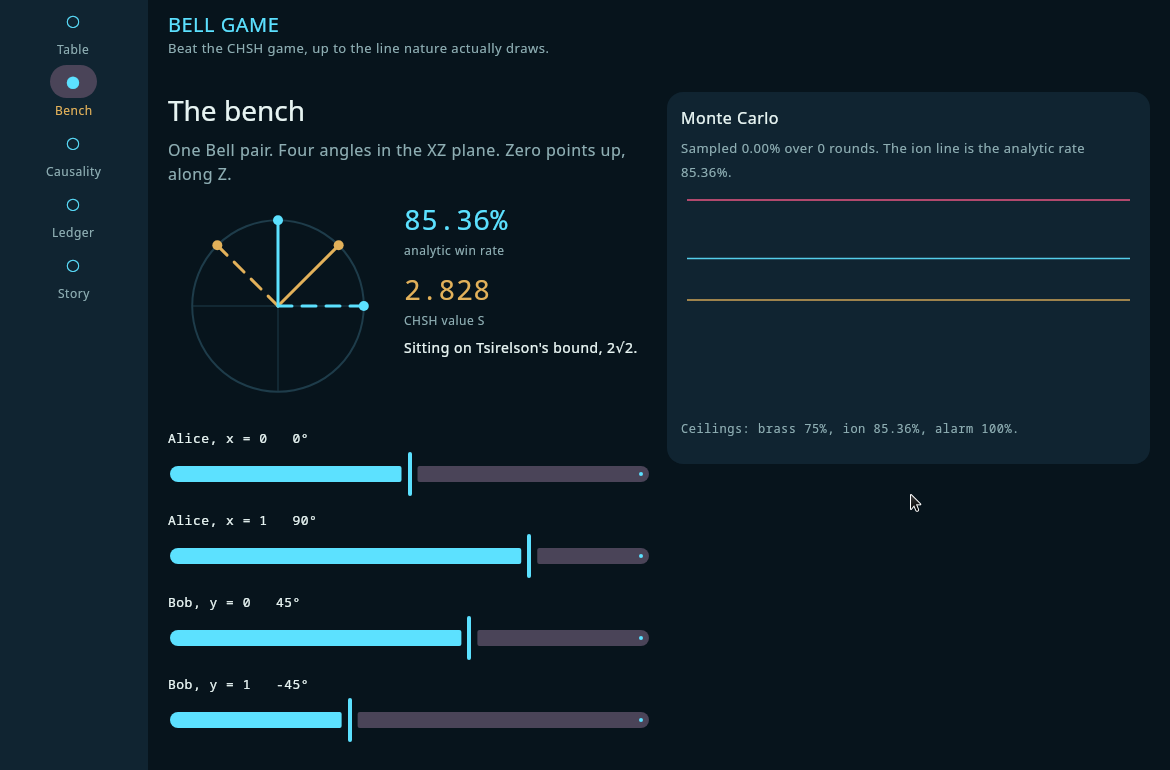
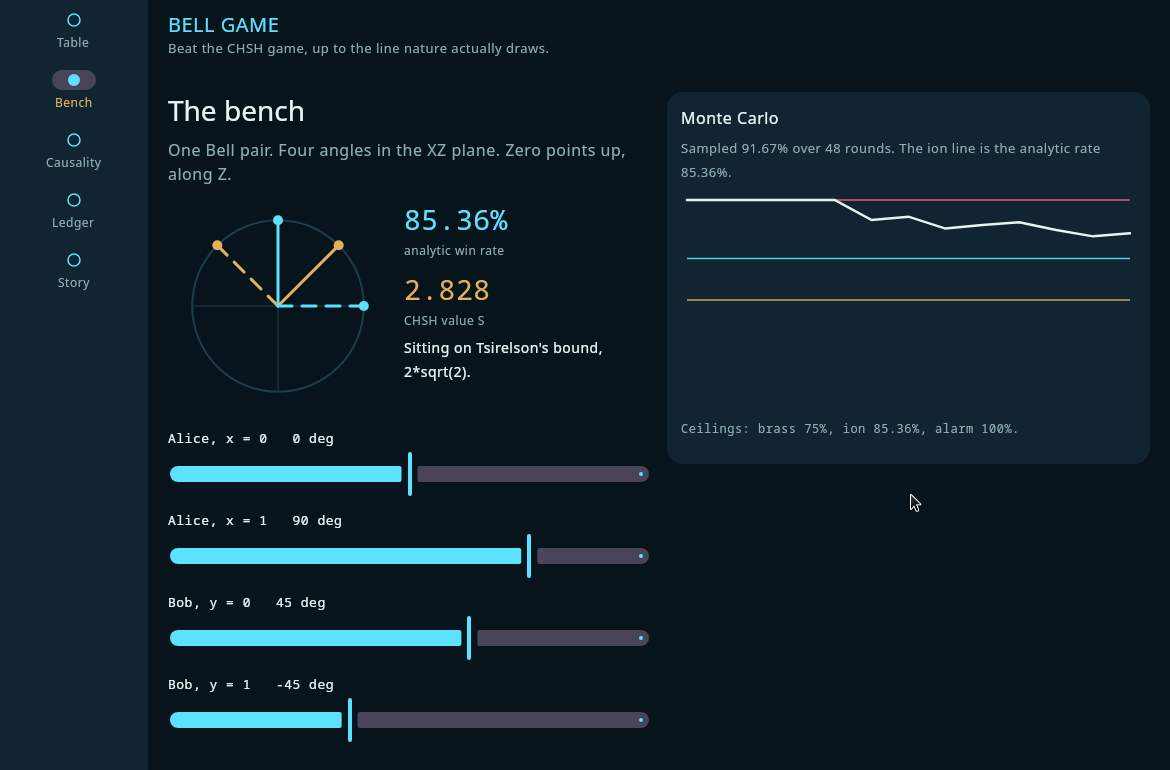
Keep the Wasm app offline and correct the bench preload.
Draw the navigation marks, serve a favicon, fill the bench sample when that
screen is preloaded, and document the shared-code count, fakeroot, and the
AGP flags. CI runs the same checks on push and pull request.

diff --git a/composeApp/src/commonMain/kotlin/dev/eyeoverthink/bellgame/ui/BellGameApp.kt b/composeApp/src/commonMain/kotlin/dev/eyeoverthink/bellgame/ui/BellGameApp.kt
@@ -1,5 +1,6 @@
 package dev.eyeoverthink.bellgame.ui
 
+import androidx.compose.foundation.Canvas
 import androidx.compose.foundation.layout.Box
 import androidx.compose.foundation.layout.BoxWithConstraints
 import androidx.compose.foundation.layout.Column
@@ -9,6 +10,7 @@ import androidx.compose.foundation.layout.fillMaxHeight
 import androidx.compose.foundation.layout.fillMaxSize
 import androidx.compose.foundation.layout.padding
 import androidx.compose.foundation.layout.safeDrawing
+import androidx.compose.foundation.layout.size
 import androidx.compose.foundation.layout.width
 import androidx.compose.foundation.layout.windowInsetsPadding
 import androidx.compose.material3.NavigationBar
@@ -24,6 +26,7 @@ import androidx.compose.runtime.mutableStateOf
 import androidx.compose.runtime.remember
 import androidx.compose.runtime.setValue
 import androidx.compose.ui.Modifier
+import androidx.compose.ui.graphics.drawscope.Stroke
 import androidx.compose.ui.unit.dp
 import androidx.compose.ui.unit.sp
 import dev.eyeoverthink.bellgame.engine.Regime
@@ -31,14 +34,21 @@ import dev.eyeoverthink.bellgame.engine.Regime
 /**
  * The whole exhibit. Every screen is shared; the platform shells only call this.
  *
- * [preloadDemo] deals a short quantum run so a cold start can show a live score.
+ * [preloadDemo] deals a short quantum run into the score that [start] actually
+ * shows. The bench has its own ledger, so opening the bench fills that sample.
+ * Every other screen fills the table.
  */
 @Composable
 fun BellGameApp(start: AppScreen = AppScreen.Table, preloadDemo: Boolean = false) {
     val session = remember { GameSession() }
     var screen by remember { mutableStateOf(start) }
-    LaunchedEffect(preloadDemo) {
-        if (preloadDemo) {
+    LaunchedEffect(preloadDemo, start) {
+        if (!preloadDemo) {
+            return@LaunchedEffect
+        }
+        if (preloadFillsBench(start)) {
+            session.recordLabRounds(PRELOAD_ROUNDS)
+        } else {
             session.selectRegime(Regime.Quantum)
             repeat(PRELOAD_ROUNDS) {
                 session.playOne()
@@ -107,7 +117,7 @@ private fun ExhibitRail(screen: AppScreen, onSelect: (AppScreen) -> Unit) {
             NavigationRailItem(
                 selected = screen == entry,
                 onClick = { onSelect(entry) },
-                icon = { Text(if (screen == entry) "●" else "○", color = BellColors.Ion) },
+                icon = { NavMark(selected = screen == entry) },
                 label = { Text(entry.label) },
             )
         }
@@ -121,11 +131,37 @@ private fun ExhibitBar(screen: AppScreen, onSelect: (AppScreen) -> Unit) {
             NavigationBarItem(
                 selected = screen == entry,
                 onClick = { onSelect(entry) },
-                icon = { Text(if (screen == entry) "●" else "○", color = BellColors.Ion, fontSize = 12.sp) },
+                icon = { NavMark(selected = screen == entry) },
                 label = { Text(entry.label, fontSize = 11.sp) },
             )
         }
     }
 }
+
+/**
+ * A filled or open circle drawn by the app.
+ *
+ * These marks used to be the text glyphs ● and ○. On Wasm, Skia downloads a
+ * Noto fallback from fonts.gstatic.com for any code point the embedded face
+ * does not contain. A circle does not ask for that face.
+ */
+@Composable
+private fun NavMark(selected: Boolean) {
+    Canvas(Modifier.size(12.dp)) {
+        if (selected) {
+            drawCircle(color = BellColors.Ion)
+        } else {
+            drawCircle(
+                color = BellColors.Ion,
+                style = Stroke(width = 1.5.dp.toPx()),
+            )
+        }
+    }
+}
+
+/**
+ * Whether a cold-start preload should fill the bench sample instead of the table.
+ */
+fun preloadFillsBench(screen: AppScreen): Boolean = screen == AppScreen.Bench
 
 private const val PRELOAD_ROUNDS = 48

diff --git a/composeApp/src/commonMain/kotlin/dev/eyeoverthink/bellgame/ui/LedgerScreen.kt b/composeApp/src/commonMain/kotlin/dev/eyeoverthink/bellgame/ui/LedgerScreen.kt
@@ -32,12 +32,12 @@ fun LedgerScreen(session: GameSession, modifier: Modifier = Modifier) {
     ) {
         Text("The ledger", style = MaterialTheme.typography.headlineMedium, color = BellColors.Ink)
         Text(
-            "Brass is 75%, ion is cos²(π/8), alarm is a perfect score. " +
+            "Brass is 75%, ion is cos^2(pi/8), alarm is a perfect score. " +
                 "A long enough run sits on the line its strategy can actually reach.",
             color = BellColors.Muted,
         )
         LedgerCard(
-            title = "Table · ${session.regime.title}",
+            title = "Table - ${session.regime.title}",
             ledger = session.ledger,
         )
         LedgerCard(
@@ -66,7 +66,7 @@ private fun LedgerCard(title: String, ledger: Ledger) {
                 for (y in 0..1) {
                     val dealt = ledger.roundsFor(x, y)
                     val label = if (dealt == 0) {
-                        "x$x y$y  —"
+                        "x$x y$y  -"
                     } else {
                         "x$x y$y  ${formatPercent(ledger.rateFor(x, y))}  ($dealt)"
                     }

diff --git a/composeApp/src/commonMain/kotlin/dev/eyeoverthink/bellgame/ui/StoryScreen.kt b/composeApp/src/commonMain/kotlin/dev/eyeoverthink/bellgame/ui/StoryScreen.kt
@@ -46,8 +46,8 @@ fun StoryScreen(modifier: Modifier = Modifier) {
             body = "Give them one entangled pair, the Bell state that is an equal mix of both " +
                 "bits zero and both bits one. Alice measures along Z or X, depending on x. " +
                 "Bob measures along the two diagonals between Z and X, depending on y. " +
-                "The chance they win a round is cos²(π/8), about 85.36%. The same angles " +
-                "produce the CHSH number 2√2, Tsirelson's bound. The bench lets you leave " +
+                "The chance they win a round is cos^2(pi/8), about 85.36%. The same angles " +
+                "produce the CHSH number 2*sqrt(2), Tsirelson's bound. The bench lets you leave " +
                 "those angles and watch the win rate fall back toward 75%, or sit on the bound " +
                 "while a Monte Carlo run settles onto the curve.",
         )

diff --git a/composeApp/src/commonMain/kotlin/dev/eyeoverthink/bellgame/ui/Format.kt b/composeApp/src/commonMain/kotlin/dev/eyeoverthink/bellgame/ui/Format.kt
@@ -26,5 +26,10 @@ fun formatFixed(value: Double, decimals: Int): String {
 /** Format a fraction in the unit interval as a percent with two decimals. */
 fun formatPercent(rate: Double): String = formatFixed(rate * 100.0, 2) + "%"
 
-/** Radians to a whole-degree label. */
-fun formatDegrees(radians: Double): String = formatFixed(radians * 180.0 / PI, 0) + "°"
+/**
+ * Radians as a whole-degree label, in ASCII.
+ *
+ * The degree sign is a separate code point. Wasm would fetch a fallback font
+ * to draw it, so the label spells the unit out.
+ */
+fun formatDegrees(radians: Double): String = formatFixed(radians * 180.0 / PI, 0) + " deg"

diff --git a/composeApp/src/commonTest/kotlin/dev/eyeoverthink/bellgame/ui/PreloadTargetTest.kt b/composeApp/src/commonTest/kotlin/dev/eyeoverthink/bellgame/ui/PreloadTargetTest.kt
@@ -1,0 +1,20 @@
+package dev.eyeoverthink.bellgame.ui
+
+import kotlin.test.Test
+import kotlin.test.assertFalse
+import kotlin.test.assertTrue
+
+class PreloadTargetTest {
+    @Test
+    fun benchPreloadFillsTheBenchLedger() {
+        assertTrue(preloadFillsBench(AppScreen.Bench))
+    }
+
+    @Test
+    fun otherScreensPreloadTheTable() {
+        assertFalse(preloadFillsBench(AppScreen.Table))
+        assertFalse(preloadFillsBench(AppScreen.Ledger))
+        assertFalse(preloadFillsBench(AppScreen.Causality))
+        assertFalse(preloadFillsBench(AppScreen.Story))
+    }
+}

diff --git a/composeApp/src/commonMain/kotlin/dev/eyeoverthink/bellgame/ui/CausalityScreen.kt b/composeApp/src/commonMain/kotlin/dev/eyeoverthink/bellgame/ui/CausalityScreen.kt
@@ -184,7 +184,7 @@ private fun explanation(regime: Regime): String = when (regime) {
         "Local boxes are correlation 1/2. Nesting them still leaves Bob short of a full extra bit."
 
     Regime.Quantum ->
-        "The qubit strategy is correlation 1/√2. Stack it as deep as you like: the sum stays under one bit."
+        "The qubit strategy is correlation 1/sqrt(2). Stack it as deep as you like: the sum stays under one bit."
 
     Regime.PopescuRohrlich ->
         "A PR box is correlation 1. Each extra layer doubles the string, and Bob still names his bit perfectly."

diff --git a/composeApp/src/commonMain/kotlin/dev/eyeoverthink/bellgame/ui/QuantumLabScreen.kt b/composeApp/src/commonMain/kotlin/dev/eyeoverthink/bellgame/ui/QuantumLabScreen.kt
@@ -189,7 +189,7 @@ private fun AngleSlider(label: String, radians: Double, onChange: (Float) -> Uni
 }
 
 private fun benchVerdict(chsh: Double): String = when {
-    chsh >= ChshConstants.tsirelsonChsh - 0.01 -> "Sitting on Tsirelson's bound, 2√2."
+    chsh >= ChshConstants.tsirelsonChsh - 0.01 -> "Sitting on Tsirelson's bound, 2*sqrt(2)."
     chsh > ChshConstants.CLASSICAL_CHSH + 0.02 -> "Above every local strategy, under the qubit limit."
     else -> "At or under the local bound of 2. A truth table can match this."
 }

diff --git a/composeApp/src/wasmJsMain/resources/index.html b/composeApp/src/wasmJsMain/resources/index.html
@@ -4,6 +4,8 @@
     <meta charset="UTF-8">
     <meta name="viewport" content="width=device-width, initial-scale=1">
     <title>Bell Game</title>
+    <link rel="icon" href="favicon.ico" sizes="32x32">
+    <link rel="icon" href="favicon.svg" type="image/svg+xml">
     <link rel="stylesheet" href="styles.css">
 </head>
 <body>

diff --git a/README.md b/README.md
@@ -24,7 +24,10 @@ You play three regimes with the same rules:
    inside that one-bit budget.
 
 Nothing in the running app asks for a key, an account, a config file, or a
-network connection. The physics and the interface live in `commonMain`.
+network connection. Text on screen stays inside the font embedded with the
+Wasm runtime, and the navigation marks are drawn circles, so the page does not
+fetch a fallback face from fonts.gstatic.com. The physics and the interface
+live in `commonMain`.
 
 This repository is a private contest project. It is not published and it has
 not been submitted anywhere.
@@ -97,7 +100,9 @@ From the repository root:
 That opens the desktop window. Optional, and not required:
 
 - `BELL_SCREEN=bench` (or `causality`, `ledger`, `story`, `table`) opens that screen.
-- `BELL_PRELOAD=1` deals a short quantum run first, so the score is not empty.
+- `BELL_PRELOAD=1` deals 48 quantum rounds into the score that screen shows.
+  On the bench, that is the bench sample. On every other screen, it is the
+  table ledger, and the regime switches to quantum.
 
 ```bash
 BELL_SCREEN=bench BELL_PRELOAD=1 ./gradlew :composeApp:run
@@ -117,8 +122,9 @@ The app image lands under `composeApp/build/compose/binaries/main/`. Launch the
 ./gradlew :composeApp:packageDeb
 ```
 
-`packageDeb` needs `dpkg-deb` on the machine. `createDistributable` does not.
-The package version is `1.0.0`.
+`packageDeb` needs both `dpkg-deb` and `fakeroot` on the machine. Without
+`fakeroot` the Debian packager cannot build the archive. `createDistributable`
+does not need either tool. The package version is `1.0.0`.
 
 ### Android
 
@@ -173,6 +179,56 @@ There is no `expect` / `actual` split. The platform source sets only start
 statistics, the information-causality protocol, and the Compose UI are all in
 `commonMain`.
 
+### How the shared-code share is counted
+
+Count `.kt` lines under `composeApp/src`. Drop blank lines. Drop comments,
+including KDoc. A count that keeps comments is higher and is not the figure
+below: on the first commit that figure was 85.7% because comment lines were
+included. The same tree, comments removed, was 83.9% of all Kotlin and 97.4%
+of production Kotlin.
+
+On the current sources the non-comment count is:
+
+| Source set | Non-comment lines |
+| --- | ---: |
+| `commonMain` | 1,836 |
+| `commonTest` | 316 |
+| `androidMain` | 15 |
+| `desktopMain` | 18 |
+| `wasmJsMain` | 15 |
+| All Kotlin | 2,200 |
+| Production (`commonMain` + the three shells) | 1,884 |
+
+`commonMain` is 1,836 / 2,200 = **83.5%** of all Kotlin, and 1,836 / 1,884 =
+**97.5%** of production Kotlin. `commonTest` is shared, but it is not part of
+the production share. Recompute with:
+
+```bash
+python3 - << 'PY'
+import re
+from pathlib import Path
+root = Path("composeApp/src")
+
+def lines(paths):
+    total = 0
+    for path in paths:
+        text = re.sub(r"/\*.*?\*/", "", path.read_text(), flags=re.S)
+        text = re.sub(r"//.*", "", text)
+        total += sum(1 for line in text.splitlines() if line.strip())
+    return total
+
+groups = {
+    name: lines(list((root / name).rglob("*.kt")))
+    for name in ("commonMain", "commonTest", "androidMain", "desktopMain", "wasmJsMain")
+}
+production = groups["commonMain"] + groups["androidMain"] + groups["desktopMain"] + groups["wasmJsMain"]
+everything = production + groups["commonTest"]
+print(groups)
+print(f"commonMain / all Kotlin: {groups['commonMain'] / everything:.1%}")
+print(f"commonMain / production: {groups['commonMain'] / production:.1%}")
+PY
+```
+
 The Kotlin Multiplatform contest starter kit (Koko) was not used as a base.
 It is a Firebase, sign-in, and purchases template. Bell Game is a
 self-contained exhibit and does not want those services.
@@ -209,6 +265,16 @@ the Wasm target still typechecks that shared code.
 Kotlin 2.4.21, Compose Multiplatform 1.12.2, JDK 21, Android Gradle Plugin
 9.3.1, compileSdk 37. All of it is free. There is no analytics SDK and no
 runtime HTTP client.
+
+`gradle.properties` sets `android.builtInKotlin=false` and
+`android.newDsl=false`. AGP 9's defaults for those flags do not configure when
+the same module applies both the Kotlin Multiplatform plugin and
+`com.android.application`. AGP 10 will remove the flags. The migration is to
+move `com.android.application` into its own module and leave this one as an
+Android KMP library. That split is not done here: it would move `assembleDebug`
+and `testDebugUnitTest` off `:composeApp`, and the current module still
+produces the debug APK and the Android unit tests. The flags are the known
+way this build keeps working until that split.
 
 ## License
 
